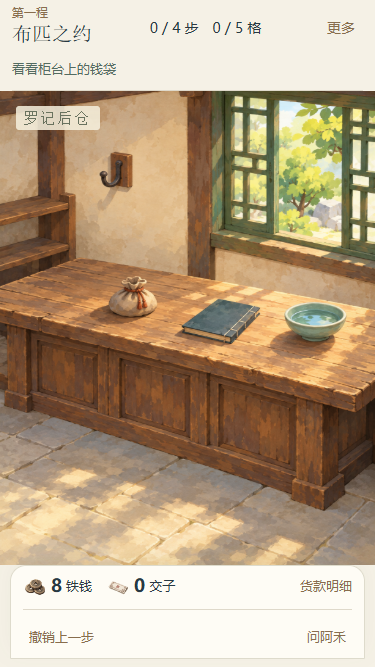
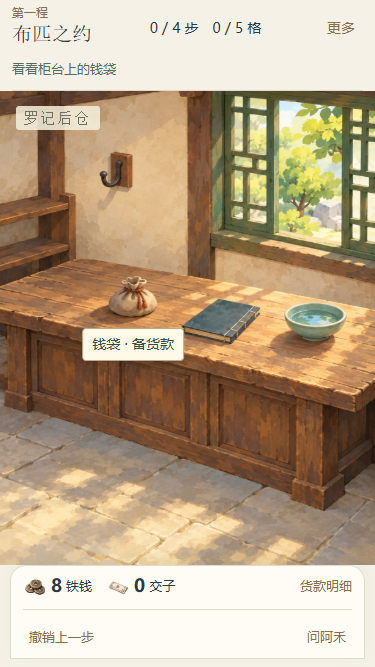
Make required warehouse story objects visible and actionable

Changed region(s): [[0.2053, 0.4798, 0.4987, 0.5397]]

diff --git a/miniapp/styles/story.css b/miniapp/styles/story.css
@@ -15,3 +15,5 @@
 /* Local counter exploration: objects occupy the room, rather than a menu. */
 .warehouse-scene{position:relative;flex:1;min-height:280px;margin:0 -12px;overflow:hidden;isolation:isolate;background:#e7e1ce}.room-wall{position:absolute;inset:0 0 34%;background:linear-gradient(105deg,#e5e0cd,#f3ecd9 60%,#d8d9c5);box-shadow:inset 0 -8px 0 #b6b59a}.room-wall:before{content:'';position:absolute;top:0;bottom:0;left:8%;width:10px;background:#8e8e71;box-shadow:2px 0 0 #c1b99c}.room-window{position:absolute;right:7%;top:9%;width:31%;height:25%;background:#d2dfca;border:7px solid #96977b;box-shadow:3px 4px 0 #b6b49a;transform:skewY(-3deg);overflow:hidden}.room-window:before{content:'';position:absolute;inset:0;background:repeating-linear-gradient(90deg,transparent 0,transparent 28%,#9fa185 29%,#9fa185 33%)}.room-window:after{content:'';position:absolute;left:0;right:0;top:45%;border-top:5px solid #a3a286}.room-window>i,.room-window>view{position:absolute;left:-10%;right:-10%;bottom:-15%;height:60%;border-radius:50%;background:#b8c6a4;box-shadow:15px -8px 0 #c4d1b4}.room-shelf{position:absolute;top:36%;left:12%;width:31%;height:9px;background:#9a9574;box-shadow:0 5px 0 #c8bda0}.room-floor{position:absolute;inset:63% 0 0;background:repeating-linear-gradient(0deg,#d0c5a9 0,#d0c5a9 52px,#bdb395 54px,#d5c9ad 56px);transform:skewY(-5deg);transform-origin:left}.room-counter{position:absolute;left:9%;right:6%;top:47%;height:34%;filter:drop-shadow(0 10px 6px #77715426)}.counter-top{position:absolute;inset:0 0 50%;background:repeating-linear-gradient(0deg,#a99b77 0,#a99b77 24px,#9c8d6b 25px,#b4a684 27px);clip-path:polygon(8% 0,100% 8%,92% 100%,0 85%);border-bottom:5px solid #81765c}.counter-front{position:absolute;left:0;right:8%;top:41%;bottom:0;background:#938365;clip-path:polygon(0 0,100% 11%,100% 100%,0 87%);box-shadow:inset 0 7px #76694f}.counter-front:after{content:'';position:absolute;left:13%;right:12%;top:28%;bottom:20%;border:3px solid #aa9b78;box-shadow:inset 0 0 0 3px #897b5c}.room-place{position:absolute;left:16px;top:15px;font:17px serif;letter-spacing:3px;color:#69725f}.room-item{position:absolute;display:block;border:0;border-radius:0;background:transparent;min-width:48px;min-height:48px;margin:0;padding:0;overflow:visible;z-index:3;color:#344c46;cursor:default;-webkit-tap-highlight-color:transparent}.room-item.interactive{cursor:pointer;touch-action:manipulation}.room-item-art{position:absolute;display:block;inset:0;transition:transform .16s ease;filter:drop-shadow(2px 5px 2px #59583d27)}.room-item.interactive:hover .room-item-art,.room-item.interactive:focus-visible .room-item-art{transform:translateY(-3px)}.room-item-name{position:absolute;top:100%;left:50%;transform:translateX(-50%);white-space:nowrap;font-size:13px;line-height:1.5;padding:3px 9px;border-radius:4px;background:#fffcefec;opacity:0;pointer-events:none}.room-item:hover .room-item-name,.room-item:focus-visible .room-item-name{opacity:1}.room-money{left:24%;top:42%;width:74px;height:87px}.money-art{inset:13px 7px 4px;background:#a2966f;border:2px solid #887b58;border-radius:32% 35% 40% 38%;transform:rotate(-7deg);box-shadow:inset 9px 0 #b4a880,inset -7px -4px #8c825e}.money-art:before{content:'';position:absolute;left:17%;right:17%;top:-13px;height:24px;background:#c0b38a;clip-path:polygon(0 0,30% 13%,52% 0,75% 15%,100% 0,80% 100%,20% 100%)}.money-art:after{content:'';position:absolute;left:7%;right:7%;top:2px;height:6px;border-radius:3px;background:#5c6d58;box-shadow:0 3px 0 #a7a079}.money-art>i,.money-art>.part-one{position:absolute;right:-10px;top:6px;width:24px;height:26px;border:3px solid #5d6e5b;border-radius:50%;transform:rotate(-20deg)}.money-art>b,.money-art>.part-two{position:absolute;left:35%;top:40%;width:14px;height:14px;border:4px solid #c7b481;border-radius:50%;box-shadow:1px 2px 0 #7d7656}.room-ledger{left:51%;top:49%;width:83px;height:58px;transform:rotate(8deg)}.ledger-art{background:#637e79;border-radius:2px 4px 4px 2px;border:2px solid #4b6866;box-shadow:1px 4px 0 #e0d8be,1px 6px 0 #8a8b6f,inset 7px 0 #465e59;transform:skewX(-10deg)}.ledger-art:before{content:'账';position:absolute;right:15%;top:14%;padding:1px 5px;background:#e8e0c5;color:#5d6558;font:19px serif;border:1px solid #bdbb9e}.ledger-art:after{content:'';position:absolute;left:10%;top:15%;bottom:15%;border-left:2px dashed #c7c5a6}.room-water{left:77%;top:44%;width:56px;height:57px}.water-art{inset:12px 4px 0;background:#bdc7ad;border:2px solid #849782;border-radius:20% 20% 40% 40%;box-shadow:inset 7px 0 #dae0c9,inset -4px -4px #a0b09a}.water-art:before{content:'';position:absolute;left:-2px;right:-2px;top:-8px;height:18px;border-radius:50%;background:#a3b5a1;border:3px solid #e0e4cd;box-shadow:inset 0 3px 0 #7a9584}.water-art:after{content:'';position:absolute;right:-13px;top:4px;width:15px;height:22px;border:5px solid #a7b8a0;border-left:0;border-radius:0 50% 50% 0;z-index:-1}.room-hook{left:21%;top:18%;width:57px;height:76px}.hook-art{inset:10px 15px;background:#a2a184;clip-path:polygon(15% 0,85% 0,100% 100%,0 100%)}.hook-art:before{content:'';position:absolute;left:30%;top:9%;width:6px;height:6px;border-radius:50%;background:#6d7562}.hook-art:after{content:'';position:absolute;left:28%;top:27%;width:13px;height:23px;border:5px solid #636d61;border-top:0;border-radius:0 0 50% 50%;transform:rotate(9deg)}.room-coin{left:37%;top:83%;width:55px;height:48px}.coin-art{inset:15px 13px;background:#8d8360;border:4px solid #b2a176;border-radius:50%;transform:rotate(-15deg) scaleY(.7);box-shadow:2px 3px 0 #7f795a}.coin-art:after{content:'';position:absolute;left:34%;top:27%;width:7px;height:7px;background:#d0c5a9;box-shadow:inset 1px 1px #6e6c52}.room-box{left:62%;top:79%;width:95px;height:65px}.box-art{inset:7px;background:#917a57;border:3px solid #776649;box-shadow:inset 0 6px #b39b73,inset 0 11px #746145;transform:rotate(-4deg)}.box-art:before{content:'';position:absolute;left:7%;right:7%;top:40%;bottom:10%;border:2px solid #baa178}.box-art:after{content:'';position:absolute;left:45%;top:14%;width:12px;height:18px;background:#b8af8b;border:1px solid #736c50;border-radius:3px}.warehouse-scene:after{content:'';position:absolute;inset:0;pointer-events:none;box-shadow:inset 0 0 30px #8b8c6512}.storyRoom .object-actions{display:none}
 .room-painting{position:absolute;inset:0;width:100%;height:100%;object-fit:fill;opacity:0;z-index:1;pointer-events:none}.room-painted .room-painting{opacity:1}.room-painted .room-wall,.room-painted .room-floor,.room-painted .room-counter,.room-painted .room-shelf,.room-painted .room-window{visibility:hidden}.room-painted .money-art,.room-painted .ledger-art,.room-painted .hook-art,.room-painted .water-art{visibility:hidden}.room-painted .room-money{left:27%;top:38%;width:17%;height:12%}.room-painted .room-ledger{left:48%;top:43%;width:23%;height:12%;transform:none}.room-painted .room-water{left:75%;top:44%;width:19%;height:11%}.room-painted .room-hook{left:25%;top:12%;width:13%;height:11%}.room-painted .room-place{z-index:2;background:#f6f0dddc;padding:4px 8px;font-size:14px;border-radius:3px}.room-item.interactive:hover:after,.room-item.interactive:focus-visible:after{content:'';position:absolute;inset:-3px;border:1px solid #f5f0d6aa;border-radius:8px;pointer-events:none}.room-painted .room-box{top:85%;height:58px}.room-painted .room-item-name{z-index:4}.warehouse-scene:after{z-index:2}
+/* Required story objects stay discoverable after an interaction changes the scene. */
+.room-item.primary-object .room-item-name{opacity:1;pointer-events:auto;background:#fff9e8;color:#344c46;border:1px solid #b7ac87;box-shadow:0 2px 5px #453d261a;padding:5px 9px;font-size:14px}.room-coin{top:79%;width:64px;height:64px}.coin-art{inset:13px;background:#777361;border:5px solid #a49b7d;box-shadow:inset 2px 2px 0 #c6bb99,2px 4px 0 #655f4f;transform:rotate(-12deg) scaleY(.82)}.coin-art:after{left:31%;top:29%;width:9px;height:9px;background:#d9cbaa;box-shadow:inset 1px 2px #5b574b}.room-coin.primary-object:before{content:'';position:absolute;inset:4px;border:1px solid #fff7dc;border-radius:50%;background:#fff9e31c;pointer-events:none}.room-painted .room-box{top:79%}.primary-object:focus-visible{outline:2px solid #7b8d6b;outline-offset:3px}

diff --git a/web/story-ui.js b/web/story-ui.js
@@ -11,4 +11,4 @@ if(['prop','commission','ledger','wallet','legacy','clear-cache'].includes(m.kin
 return null;}
 function propArt(m){const a=m.asset;if(a==='box')return '<div class="prop-art wooden-box"><span>旧匣</span></div>';if(a==='old-note')return '<div class="prop-art old-note"><span>蜀地交子</span><b>押</b><small>虚构票面 · 剧情线索</small></div>';if(a==='order')return '<div class="prop-art order-paper"><span>罗记货单</span><strong>青布一批</strong><span>六份货款</span></div>';if(a==='damp'||a&&a.startsWith('cloth-'))return `<div class="prop-art cloth-prop ${a}"><img src="/miniapp/assets/generated/cloth.png" alt="布包"><span>${esc(m.title)}</span></div>`;if(a==='iron')return '<div class="prop-art"><img src="/miniapp/assets/generated/iron.png" alt="柜底铁钱"></div>';return '';}
 
-function warehouseScene(v){return `<section class="warehouse-scene" aria-label="罗记后仓柜台"><img class="room-painting" src="/miniapp/assets/chapters/warehouse-interior.png" alt="木柜台上放着钱袋、账簿与水碗，左墙挂着空挂钩"><div class="room-wall"></div><div class="room-window"><i></i></div><div class="room-shelf"></div><div class="room-floor"></div><div class="room-counter"><div class="counter-top"></div><div class="counter-front"></div></div><span class="room-place">罗记后仓</span>${v.roomObjects.map(o=>{const content=`<span class="room-item-art ${o.id}-art"><i></i><b></b><em></em></span><span class="room-item-name">${o.label}</span>`;return o.active?`<button class="room-item room-${o.id} interactive" data-action="${o.action}" aria-label="${o.label}" title="${o.label}">${content}</button>`:`<span class="room-item room-${o.id}" aria-hidden="true">${content}</span>`;}).join('')}</section>`;}
+function warehouseScene(v){return `<section class="warehouse-scene" aria-label="罗记后仓柜台"><img class="room-painting" src="/miniapp/assets/chapters/warehouse-interior.png" alt="木柜台上放着钱袋、账簿与水碗，左墙挂着空挂钩"><div class="room-wall"></div><div class="room-window"><i></i></div><div class="room-shelf"></div><div class="room-floor"></div><div class="room-counter"><div class="counter-top"></div><div class="counter-front"></div></div><span class="room-place">罗记后仓</span>${v.roomObjects.map(o=>{const content=`<span class="room-item-art ${o.id}-art"><i></i><b></b><em></em></span><span class="room-item-name">${o.primary?o.hint:o.label}</span>`;return o.active?`<button class="room-item room-${o.id} interactive ${o.primary?'primary-object':''}" data-action="${o.action}" aria-label="${o.label}" title="${o.label}">${content}</button>`:`<span class="room-item room-${o.id}" aria-hidden="true">${content}</span>`;}).join('')}</section>`;}

diff --git a/miniapp/ui/story-view.js b/miniapp/ui/story-view.js
@@ -1,7 +1,7 @@
 (function(root,factory){if(typeof module==='object'&&module.exports)module.exports=factory(require('../core/engine'));else root.ShuStoryView=factory(root.ShuEngine);})(this,function(E){
 function decorate(v){if(!v.story)return v;const s=v.s,st=v.story;
 v.storyRoom=s.nodeId==='warehouse'&&['counter','coin','box'].includes(st.phase);
-v.roomObjects=[{id:'money',label:'钱袋'},{id:'ledger',label:'账簿'},{id:'hook',label:'挂钩'},{id:'water',label:'水碗'},...(st.phase==='coin'?[{id:'coin',label:'柜底铁钱'}]:[]),...(st.phase==='box'?[{id:'box',label:'旧木匣'}]:[])].map(o=>Object.assign(o,{active:v.storyObjects.some(a=>a.id===o.id),action:'object:'+o.id}));
+v.roomObjects=[{id:'money',label:'钱袋'},{id:'ledger',label:'账簿'},{id:'hook',label:'挂钩'},{id:'water',label:'水碗'},...(st.phase==='coin'?[{id:'coin',label:'柜底铁钱'}]:[]),...(st.phase==='box'?[{id:'box',label:'旧木匣'}]:[])].map(o=>Object.assign(o,{active:v.storyObjects.some(a=>a.id===o.id),action:'object:'+o.id,primary:o.id===({counter:'money',coin:'coin',box:'box'}[st.phase]),hint:({money:'钱袋 · 备货款',coin:'拾起铁钱',box:'托住旧匣'})[o.id]||o.label}));
 v.storyEnded=st.phase==='settled';v.storyMap=s.status==='playing'||s.status==='won'&&!v.storyEnded;
 v.storyMoney={iron:s.departed?s.iron:s.warehouseIron,note:s.notesByIssuer.a||0,cloth:s.cargoById.cloth||0};
 v.paymentVisible=st.phase==='payment'&&st.paymentOpen;

diff --git a/docs/warehouse-interaction-0.4.9.md b/docs/warehouse-interaction-0.4.9.md
@@ -11,3 +11,5 @@
 验证：103 项单元测试通过；V4 两条完整路线在 375×812、390×844、430×932 的浏览器回归通过；专门的后仓测试在 375×667、390×844、430×932 检查四个物件热区不重叠且至少 44px、可选观察不修改钱货或步数、刷新续接、拾钱/旧匣与回地图。生成背景接入后重新执行后仓点击测试与构建。
 
 截图：`outputs/warehouse-exploration-375.png`、`warehouse-exploration-390.png`、`warehouse-exploration-430.png`。小程序适配器和模板结构检查通过，仍未进行官方真机验收。
+
+修复后续指引：当前必要物件（钱袋、掉落铁钱、旧匣）常显动作标签；铁钱扩大、提高对比并增加静态定位圈。标签本身可点，避免下一步只有一个难以发现的小点。三种尺寸回归额外检查标签不被近景裁切，并以点击标签走通拾钱、发现旧匣及回地图。新增 `outputs/warehouse-coin-390.png` 和 `warehouse-box-390.png`。
